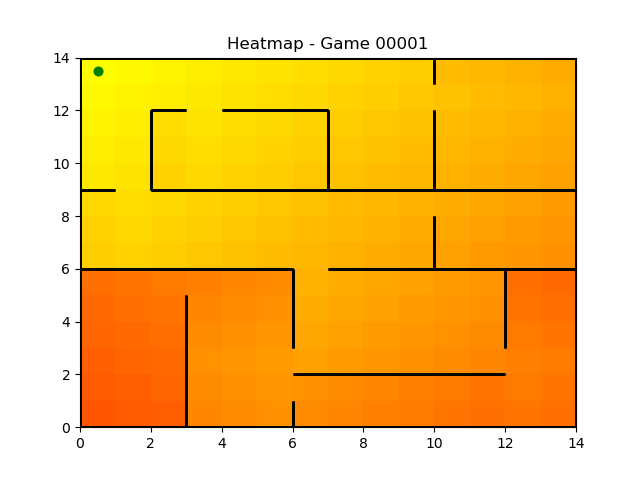
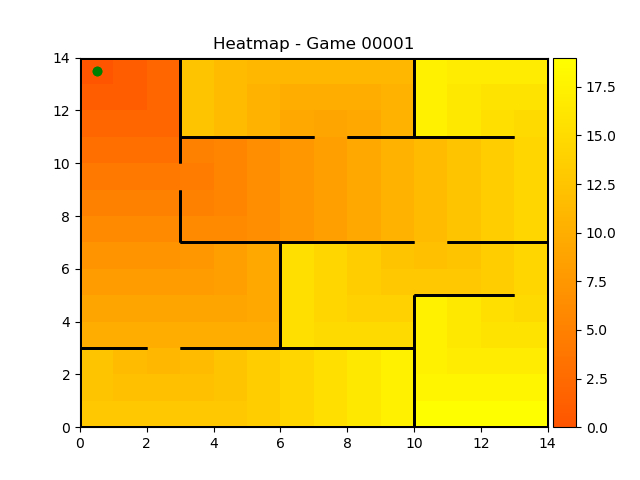
Refactored visualizations

diff --git a/environment/game_creator.py b/environment/game_creator.py
@@ -51,18 +51,15 @@ class Maze:
         
         # Generate rooms
         self.generate_rooms()
-        if visualize:
-            self.visualize()
+        if visualize: self.visualize()
         
         # Add division-walls
         self.generate_division_walls()
-        if visualize:
-            self.visualize()
+        if visualize: self.visualize()
         
         # Add doors in walls such that every room is connected
         self.connect_rooms()
-        if visualize:
-            self.visualize()
+        if visualize: self.visualize()
     
     # ------------------------------------------------> MAIN METHODS <------------------------------------------------ #
     
@@ -129,37 +126,42 @@ class Maze:
         return wall_list
     
     def get_path_coordinates(self, visualize=False):
-        """
-        :return: All free-positions together with their distance to the target
-        """
+        """ Define all free-positions together with their distance to the target """
         
         def get_neighbour_values(p):
             neighbours = [self.maze[p[0], p[1]]]
+            # Direct neighbours
             if self.in_maze([p[0] + 1, p[1]]): neighbours.append(self.maze[p[0] + 1, p[1]] - 1)
             if self.in_maze([p[0] - 1, p[1]]): neighbours.append(self.maze[p[0] - 1, p[1]] - 1)
             if self.in_maze([p[0], p[1] + 1]): neighbours.append(self.maze[p[0], p[1] + 1] - 1)
             if self.in_maze([p[0], p[1] - 1]): neighbours.append(self.maze[p[0], p[1] - 1] - 1)
+            # Indirect neighbours
+            if self.in_maze([p[0] + 1, p[1] + 1]): neighbours.append(self.maze[p[0] + 1, p[1] + 1] - 1)
+            if self.in_maze([p[0] + 1, p[1] - 1]): neighbours.append(self.maze[p[0] + 1, p[1] - 1] - 1)
+            if self.in_maze([p[0] - 1, p[1] + 1]): neighbours.append(self.maze[p[0] - 1, p[1] + 1] - 1)
+            if self.in_maze([p[0] - 1, p[1] - 1]): neighbours.append(self.maze[p[0] - 1, p[1] - 1] - 1)
             return neighbours
+        
+        # Constant
+        VALUE_START = 100
         
         # Find distance to target
         if visualize:
             self.visualize(clip=False)
-        self.maze[self.y_width - 2, 1] = 100
+        self.maze[self.y_width - 2, 1] = VALUE_START
         for _ in range(50):  # Definitely enough time to cover all non-wall tiles
             for x in range(1, self.x_width - 1):
                 for y in range(1, self.y_width - 1):
                     if self.maze[x, y] > -1:
                         self.maze[x, y] = max(get_neighbour_values([x, y]))
-        if visualize:
-            self.visualize(clip=False)
+        if visualize: self.visualize(clip=False)
         
-        # Normalize on 100-scale
-        min_value = min([self.maze[x, y] for x in range(1, self.x_width - 2) for y in range(1, self.y_width - 2)
-                         if self.maze[x, y] >= 1])
+        # Invert values such that distance to target @target equals 0, and distance at start equals |X-VALUE_START| / 2
+        # Note the /2 since 1m in-game is 2 squared here
         for x in range(1, self.x_width - 1):
             for y in range(1, self.y_width - 1):
                 if self.maze[x, y] > -1:
-                    self.maze[x, y] = (self.maze[x, y] - min_value) / (100 - min_value)
+                    self.maze[x, y] = abs(self.maze[x, y] - VALUE_START) / 2
         
         # Put values in list
         values = []
@@ -565,7 +567,7 @@ if __name__ == '__main__':
     parser = argparse.ArgumentParser(description='')
     parser.add_argument('--custom', type=bool, default=False)
     parser.add_argument('--overwrite', type=bool, default=True)
-    parser.add_argument('--nr_games', type=int, default=1)#GAMES_AMOUNT)
+    parser.add_argument('--nr_games', type=int, default=GAMES_AMOUNT)
     parser.add_argument('--visualize', type=bool, default=False)
     args = parser.parse_args()
     
@@ -579,6 +581,7 @@ if __name__ == '__main__':
                     maze = Maze(AXIS_X, AXIS_Y, visualize=args.visualize)
                 except (IndexError, Exception):
                     maze = None  # Reset and try again
+            maze.get_path_coordinates(visualize=True)
             create_game(game_id=game,
                         path_list=maze.get_path_coordinates(),
                         wall_list=maze.get_wall_coordinates(),

diff --git a/environment/game_visualizer.py b/environment/game_visualizer.py
@@ -4,9 +4,12 @@ game_visualizer.py
 This method is purely used to visualize the game-maps (used in the thesis). This file must be called in the environment
 folder to make sure the visualizations are saved properly.
 """
+import matplotlib as mpl
 import matplotlib.colors as clr
 import matplotlib.pyplot as plt
-
+from mpl_toolkits.axes_grid1 import make_axes_locatable
+import numpy as np
+from matplotlib import cm
 from environment.entities.game import Game
 
 
@@ -36,25 +39,40 @@ def game_blueprint(game):
 
 def path_heatmap(game):
     path = game.path
+    path_norm = dict((k, v / max(path.values())) for k, v in path.items())
     
     def fill(x1, x2, y1, y2):
         x12 = (x1 + x2) / 2
         y12 = (y1 + y2) / 2
-        c = clr.to_hex([1, path[(x12, y12)] * 2 / 3 + 0.33, 0])
+        c = clr.to_hex([1, path_norm[(x12, y12)] * 2 / 3 + 0.33, 0])
         plt.fill([x1, x1, x2, x2], [y1, y2, y2, y1], c)
     
-    ax = game.get_blueprint()
+    fig, ax = plt.subplots()
+    divider = make_axes_locatable(ax)
+    game.get_blueprint(ax)
     for x in range(14):
         for y in range(14):
             fill(x, x + 1, y, y + 1)
     game.get_blueprint(ax)
+    
+    # Set the title for the plot
     plt.title("Heatmap - Game {id:05d}".format(id=game.id))
+    
+    # Create the colorbar
+    cax = divider.append_axes('right', size='5%', pad=0.05)
+    norm = mpl.colors.Normalize(vmin=0, vmax=max(path.values()))
+    data = np.ones((256, 3))
+    data[:, 1] = np.linspace(0.33, 1, 256)
+    data[:, 2] = 0
+    mpl.colorbar.ColorbarBase(cax, cmap=clr.ListedColormap(data), norm=norm, orientation='vertical')
+    
+    # Save the figure
     plt.savefig('visualizations/heatmap_game{g:05d}'.format(g=game.id))
 
 
 if __name__ == '__main__':
     # Load the game
-    for g_id in range(1, 11):
+    for g_id in range(1, 2):
         g = load_game(g_id)
         
         # Create visualizations
